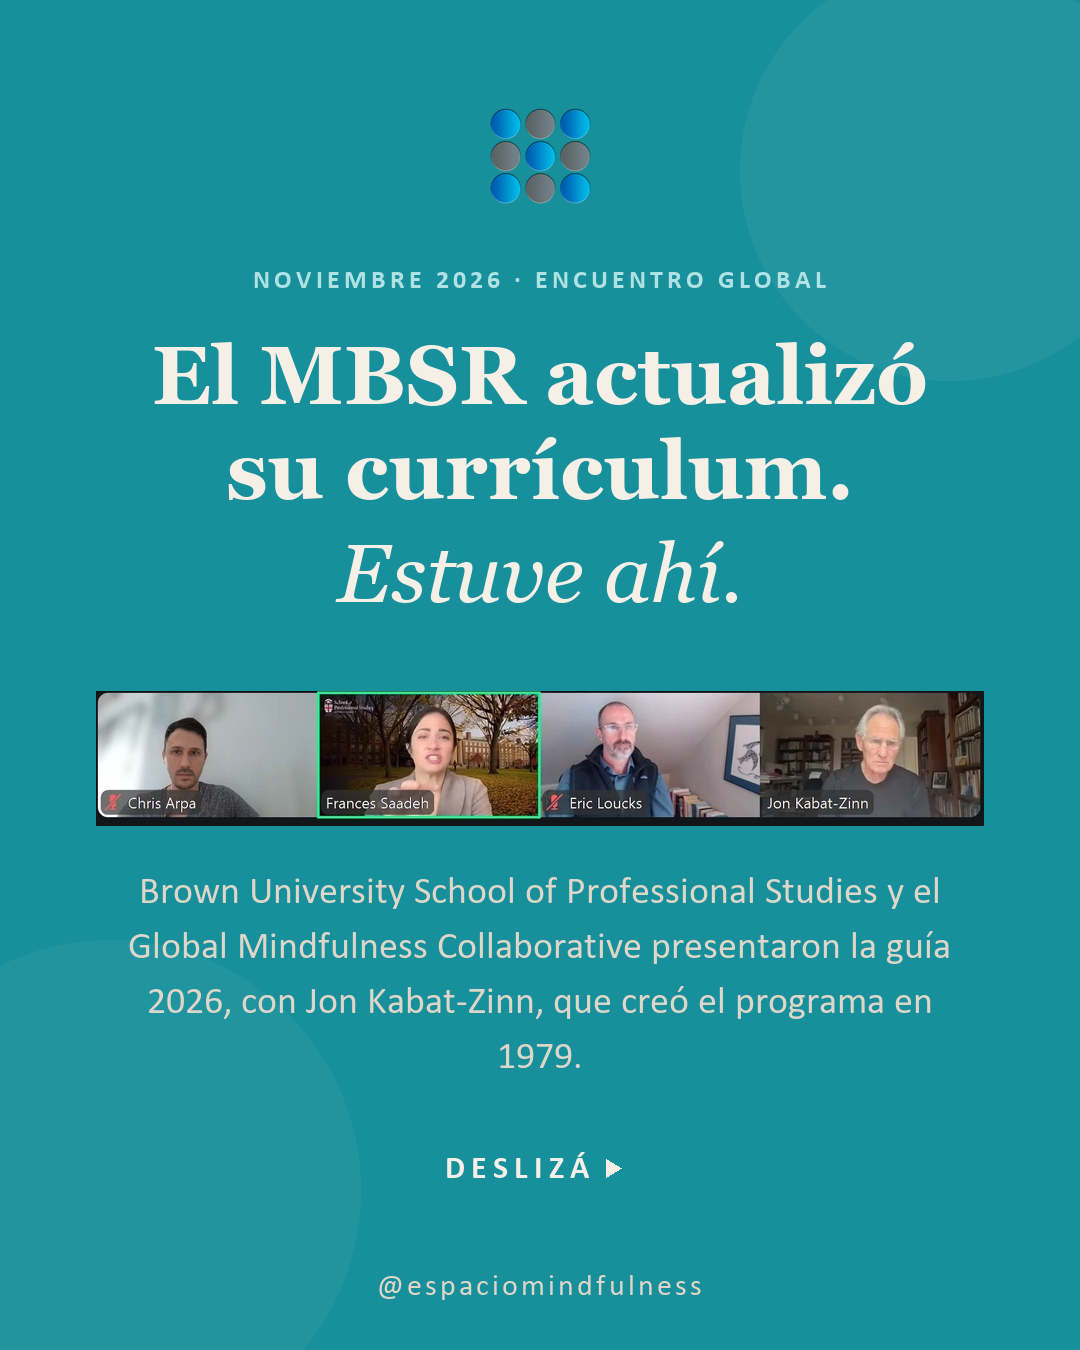
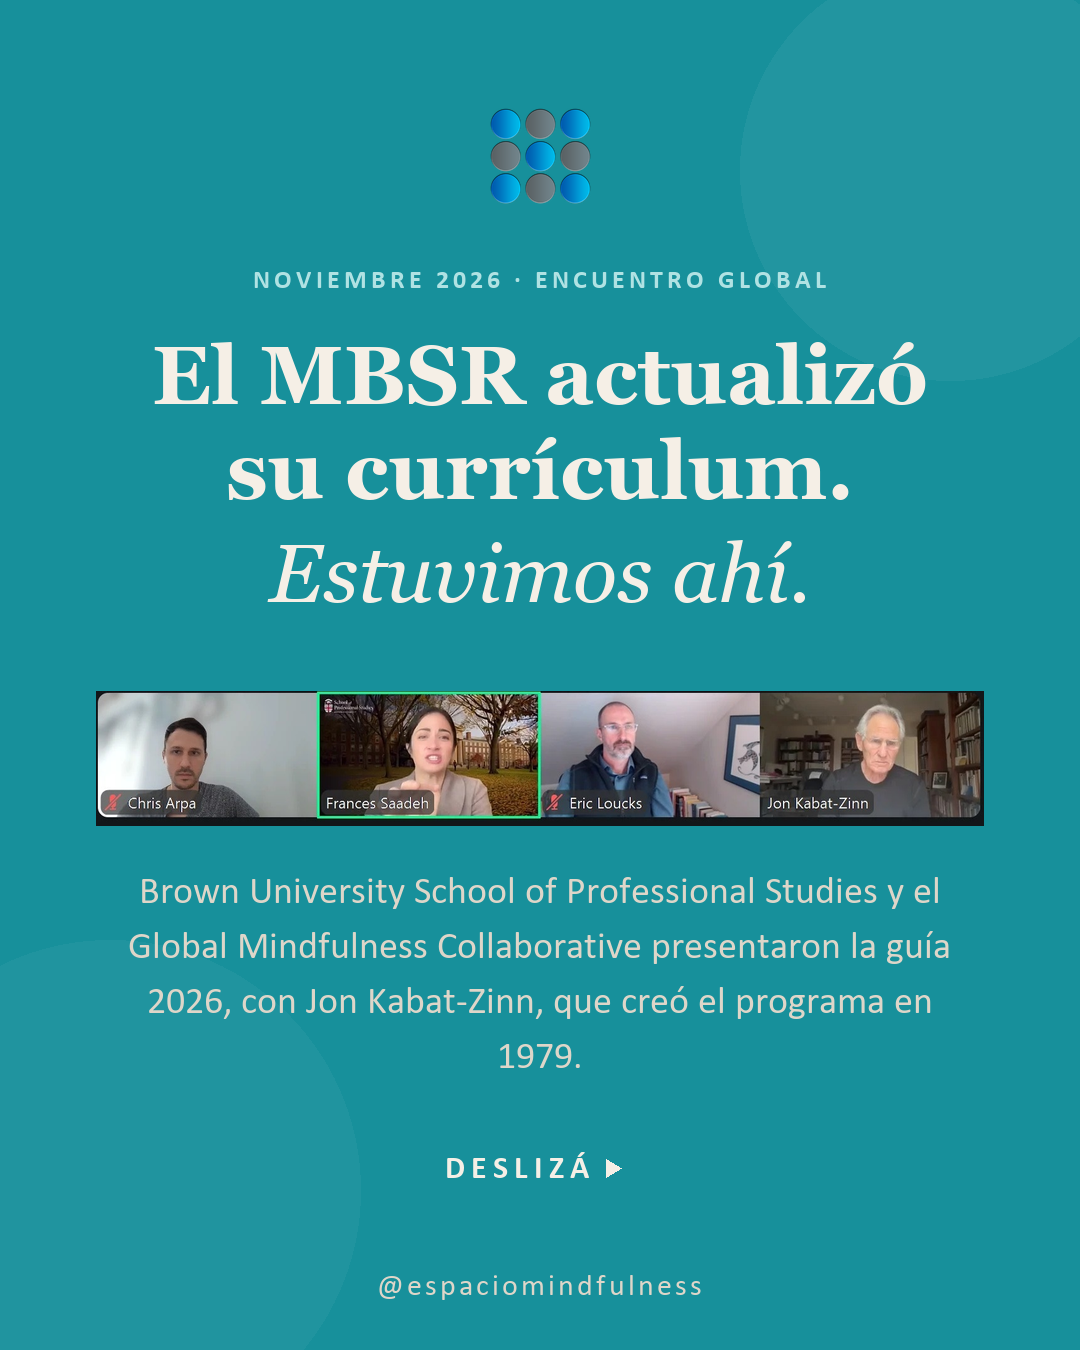
«Estuvimos ahi» en la placa y la representacion explicita en el texto

Changed region(s): [[0.2444, 0.4044, 0.7333, 0.4667]]

diff --git a/disenio/gen_mbsr2026.py b/disenio/gen_mbsr2026.py
@@ -55,7 +55,10 @@ def p1_estuve_ahi():
               TURQ_PALIDO, sep=4, centrado_en=W)
     y = parrafo(d, "El MBSR actualizó su currículum.", fuente(SERIF_B, 82),
                 MARGEN, 328, util, CREMA, interlinea=1.16, centrado=True)
-    y = parrafo(d, "Estuve ahí.", fuente(SERIF_I, 82), MARGEN, y + 8, util,
+    # "Estuvimos" y no "Estuve": la placa sale de la cuenta de la institucion
+    # y Christian participo como su director. El cuerpo del texto aclara que
+    # fue el, para que el plural no sugiera que fueron varios.
+    y = parrafo(d, "Estuvimos ahí.", fuente(SERIF_I, 82), MARGEN, y + 8, util,
                 CREMA, interlinea=1.16, centrado=True)
 
     # La tira entra a todo el ancho util, con su proporcion original.

diff --git a/disenio/programar_mbsr2026.py b/disenio/programar_mbsr2026.py
@@ -23,7 +23,8 @@ RAIZ = Path(__file__).resolve().parent.parent
 RUTA = RAIZ / "contenido" / "calendario.json"
 
 CAPTION = (
- "Hoy el MBSR presentó su currículum 2026. Estuve conectado.\n\n"
+ "Hoy el MBSR presentó su currículum 2026. Participé en vivo, en "
+ "representación de Espacio Mindfulness.\n\n"
  "Brown University School of Professional Studies y el Global Mindfulness "
  "Collaborative presentaron la guía 2026 del programa, con Jon Kabat-Zinn "
  "—que lo creó en 1979— entre los expositores. Más de 700 personas de todo "
